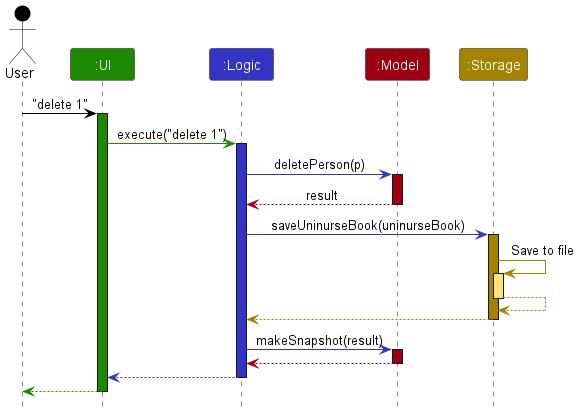
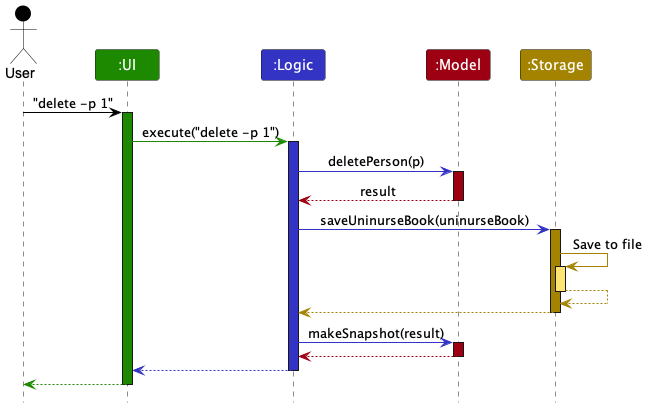
Update DG links

diff --git a/docs/DeveloperGuide.md b/docs/DeveloperGuide.md
@@ -9,7 +9,8 @@ title: Developer Guide
 
 ## **Acknowledgements**
 
-* {list here sources of all reused/adapted ideas, code, documentation, and third-party libraries -- include links to the original source as well}
+* This project is based on the [AddressBook Level 3 (AB3)](https://se-education.org/addressbook-level3/) project created by the [SE-EDU initiative](https://se-education.org/).
+* Libraries used: [JavaFX](https://openjfx.io/), [Jackson](https://github.com/FasterXML/jackson), [JUnit5](https://github.com/junit-team/junit5)
 
 --------------------------------------------------------------------------------------------------------------------
 
@@ -23,36 +24,36 @@ Refer to the guide [_Setting up and getting started_](SettingUp.md).
 
 <div markdown="span" class="alert alert-primary">
 
-:bulb: **Tip:** The `.puml` files used to create diagrams in this document can be found in the [diagrams](https://github.com/se-edu/addressbook-level3/tree/master/docs/diagrams/) folder. Refer to the [_PlantUML Tutorial_ at se-edu/guides](https://se-education.org/guides/tutorials/plantUml.html) to learn how to create and edit diagrams.
+:bulb: **Tip:** The `.puml` files used to create diagrams in this document can be found in the [diagrams](https://github.com/AY2223S1-CS2103T-T12-4/tp/tree/master/docs/diagrams/) folder. Refer to the [_PlantUML Tutorial_ at se-edu/guides](https://se-education.org/guides/tutorials/plantUml.html) to learn how to create and edit diagrams.
 </div>
 
 ### Architecture
 
 <img src="images/ArchitectureDiagram.png" width="280" />
 
-The ***Architecture Diagram*** given above explains the high-level design of the App.
+The ***Architecture Diagram*** given above explains the high-level design of UniNurse.
 
-Given below is a quick overview of main components and how they interact with each other.
+Given below is a quick overview of the main components and how they interact with each other.
 
 **Main components of the architecture**
 
-**`Main`** has two classes called [`Main`](https://github.com/se-edu/addressbook-level3/tree/master/src/main/java/seedu/address/Main.java) and [`MainApp`](https://github.com/se-edu/addressbook-level3/tree/master/src/main/java/seedu/address/MainApp.java). It is responsible for,
+**`Main`** has two classes called [`Main`](https://github.com/AY2223S1-CS2103T-T12-4/tp/tree/master/src/main/java/seedu/uninurse/Main.java) and [`MainApp`](https://github.com/AY2223S1-CS2103T-T12-4/tp/tree/master/src/main/java/seedu/uninurse/MainApp.java). It is responsible for,
 * At app launch: Initializes the components in the correct sequence, and connects them up with each other.
 * At shut down: Shuts down the components and invokes cleanup methods where necessary.
 
 [**`Commons`**](#common-classes) represents a collection of classes used by multiple other components.
 
-The rest of the App consists of four components.
+The rest of UniNurse consists of four components.
 
-* [**`UI`**](#ui-component): The UI of the App.
+* [**`UI`**](#ui-component): The UI of UniNurse.
 * [**`Logic`**](#logic-component): The command executor.
-* [**`Model`**](#model-component): Holds the data of the App in memory.
+* [**`Model`**](#model-component): Holds the data of UniNurse in memory.
 * [**`Storage`**](#storage-component): Reads data from, and writes data to, the hard disk.
 
 
 **How the architecture components interact with each other**
 
-The *Sequence Diagram* below shows how the components interact with each other for the scenario where the user issues the command `delete 1`.
+The *Sequence Diagram* below shows how the components interact with each other for the scenario where the user issues the command `delete -p 1`.
 
 <img src="images/ArchitectureSequenceDiagram.png" width="574" />
 
@@ -69,7 +70,7 @@ The sections below give more details of each component.
 
 ### UI component
 
-The **API** of this component is specified in [`Ui.java`](https://github.com/se-edu/addressbook-level3/tree/master/src/main/java/seedu/address/ui/Ui.java)
+**API** : [`Ui.java`](https://github.com/AY2223S1-CS2103T-T12-4/tp/tree/master/src/main/java/seedu/uninurse/ui/Ui.java)
 
 ![Structure of the UI Component](images/UiClassDiagram.png)
 
@@ -86,7 +87,13 @@ The `UI` component,
 
 ### Logic component
 
-**API** : [`Logic.java`](https://github.com/se-edu/addressbook-level3/tree/master/src/main/java/seedu/address/logic/Logic.java)
+**API** : [`Logic.java`](https://github.com/AY2223S1-CS2103T-T12-4/tp/tree/master/src/main/java/seedu/uninurse/logic/Logic.java)
+
+**Description**
+
+The `Logic` component handles the execution of the user input. `Logic` parses the user input to decide the type of command to be executed.
+
+**Components**
 
 Here's a (partial) class diagram of the `Logic` component:
 
